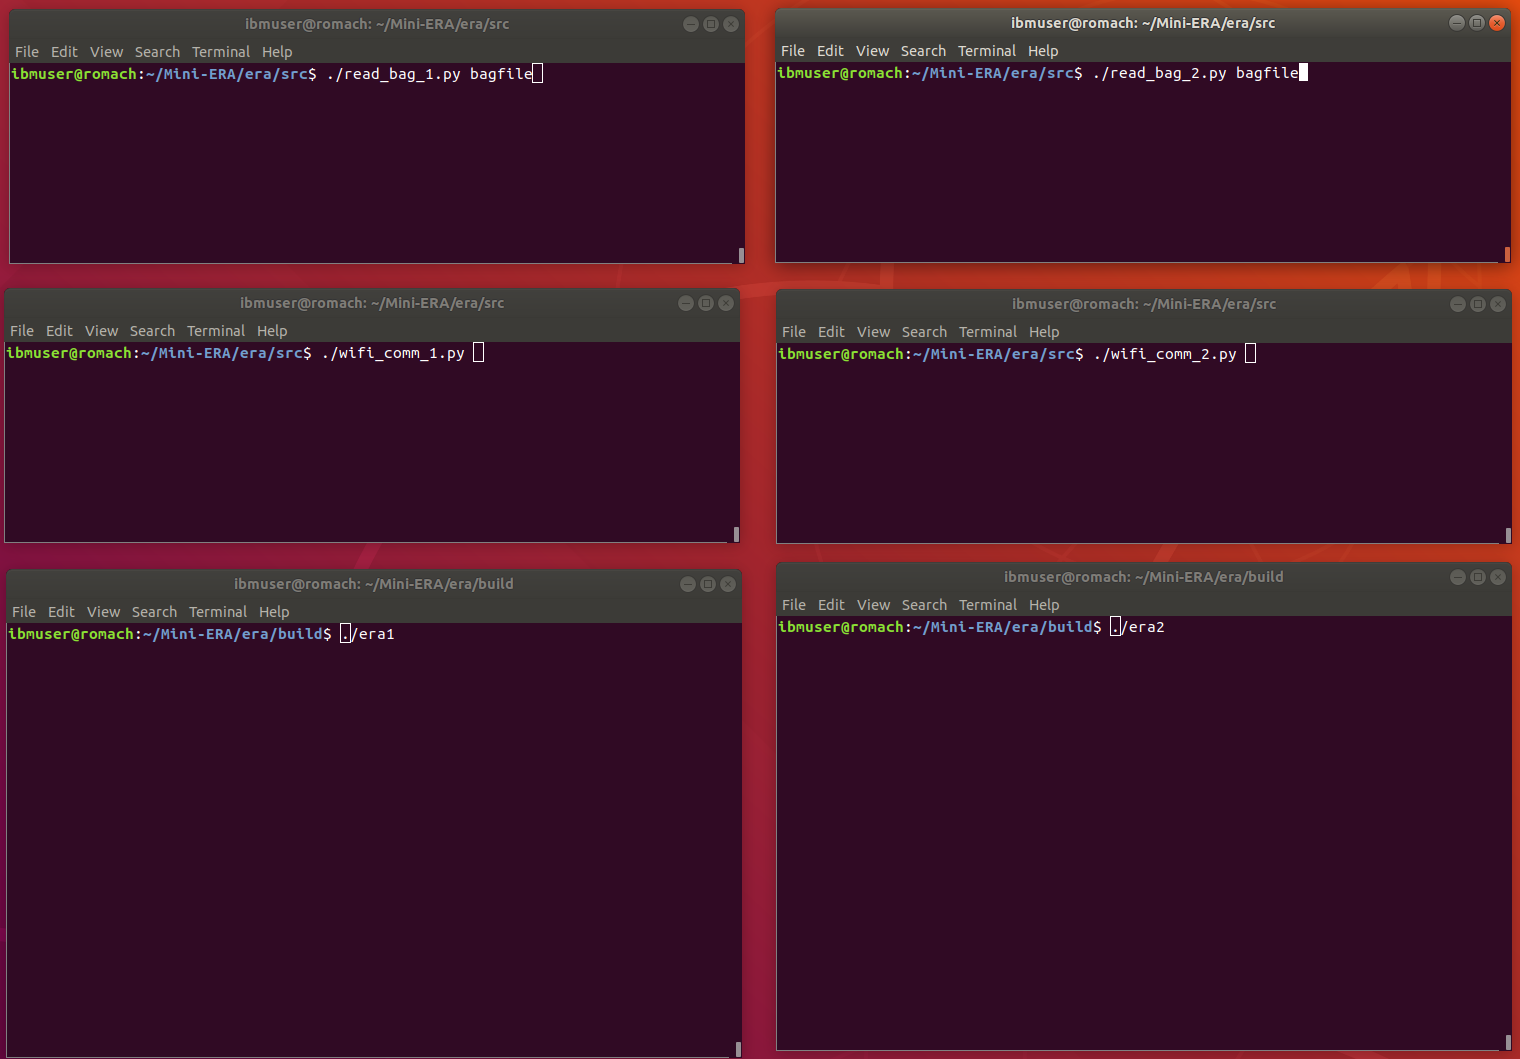
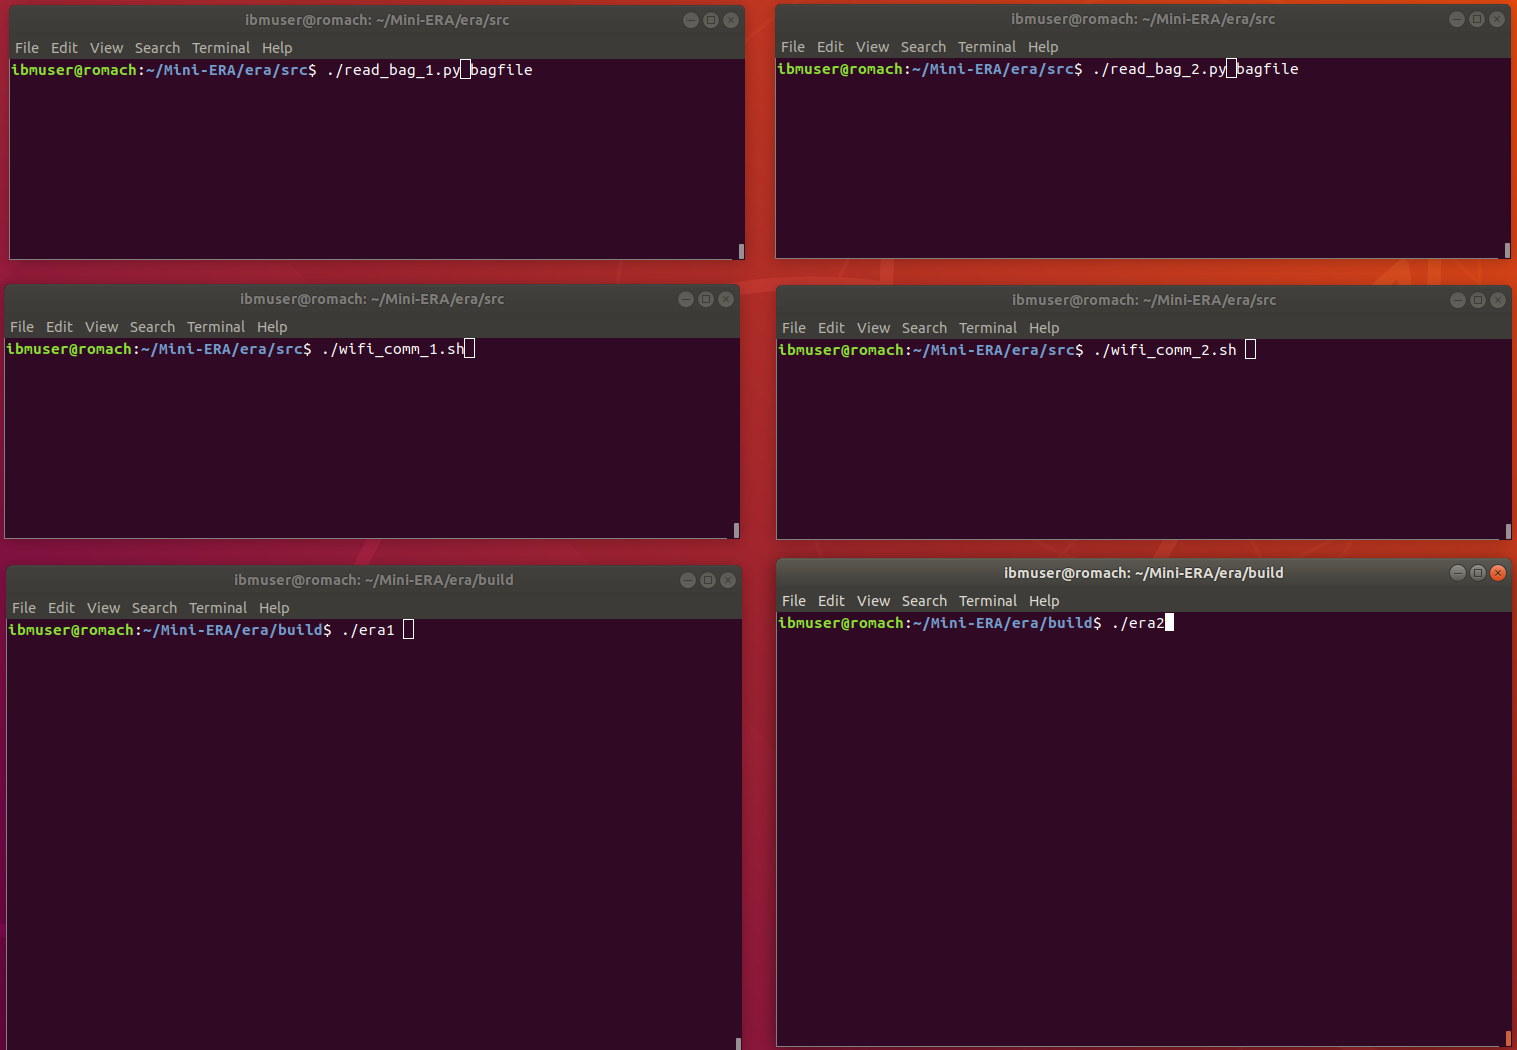
Updated to reflect new file names/use

diff --git a/README.md b/README.md
@@ -45,8 +45,8 @@ two ERA executables:
 To execute the Demo-ERA program requires six simultaneous processes:
  - one process to read the input bagfile for AV 1 (```read_bag_1.py```)
  - one process to read the input bagfile for AV 2 (```read_bag_2.py```)
- - one process to run the ERA (swarming) workload for AV 1 (```wifi_comm_1.py```)
- - one process to run the ERA (swarming) workload for AV 2 (```wifi_comm_2.py```)
+ - one process to run the ERA (swarming) workload for AV 1 (```wifi_comm_1.sh```)
+ - one process to run the ERA (swarming) workload for AV 2 (```wifi_comm_2.sh```)
  - one process to operate as the WiFi interconnect for AV 1 -> AV 2 messages (```era1```)
  - one process to operate as the WiFi interconnect for AV 2 -> AV 1 messages (```era2```)
 
@@ -67,13 +67,15 @@ The underlying function is as follows
  mechanism for reading these large trace files and providing them to a simpler or mroe limited
  platform (e.g. an FPGA or smaller-memory SoC).
 
-### ```wifi_comm_X.py```
- The wifi_comm programs will each set up another socket server, and listen for the appropriate
- connections from the era programs.  The wifi_comm act as a stand-in for the over-air transmission
- of the WiFi data, allowing the two AVs (embodied in the era programs) to communicate their
- shared messages/data.
+### ```wifi_comm_X.sh```
+ The wifi_comm programs are really just shell-scripts that embody specific (command-line)
+ parameters for underlying invocations of the ```wifi_comm.py``` program.  The
+ ```wifi_comm.py``` program will set up a socket server, and listen for the appropriate
+ connections from the era programs.  The wifi_comm server then acts as a stand-in (substitute)
+ for the over-air transmission of the WiFi data, allowing the two AVs
+ (embodied in the era programs) to communicate their shared messages/data.
 
-The wifi_comm programs each implement a "receiver" channel (socket) and a "transmission" channel
+The ```wifi_comm.py``` program implements a "receiver" channel (socket) and a "transmission" channel
 (socket) which provides them the means to take tranmitted data from one AV and provide it to the
 other AV.  At present this only supports the 2-AV initial system, and does not provide for broadcast
 communications, which may be future work.  Similarly, this operates in a "time-step" fully
